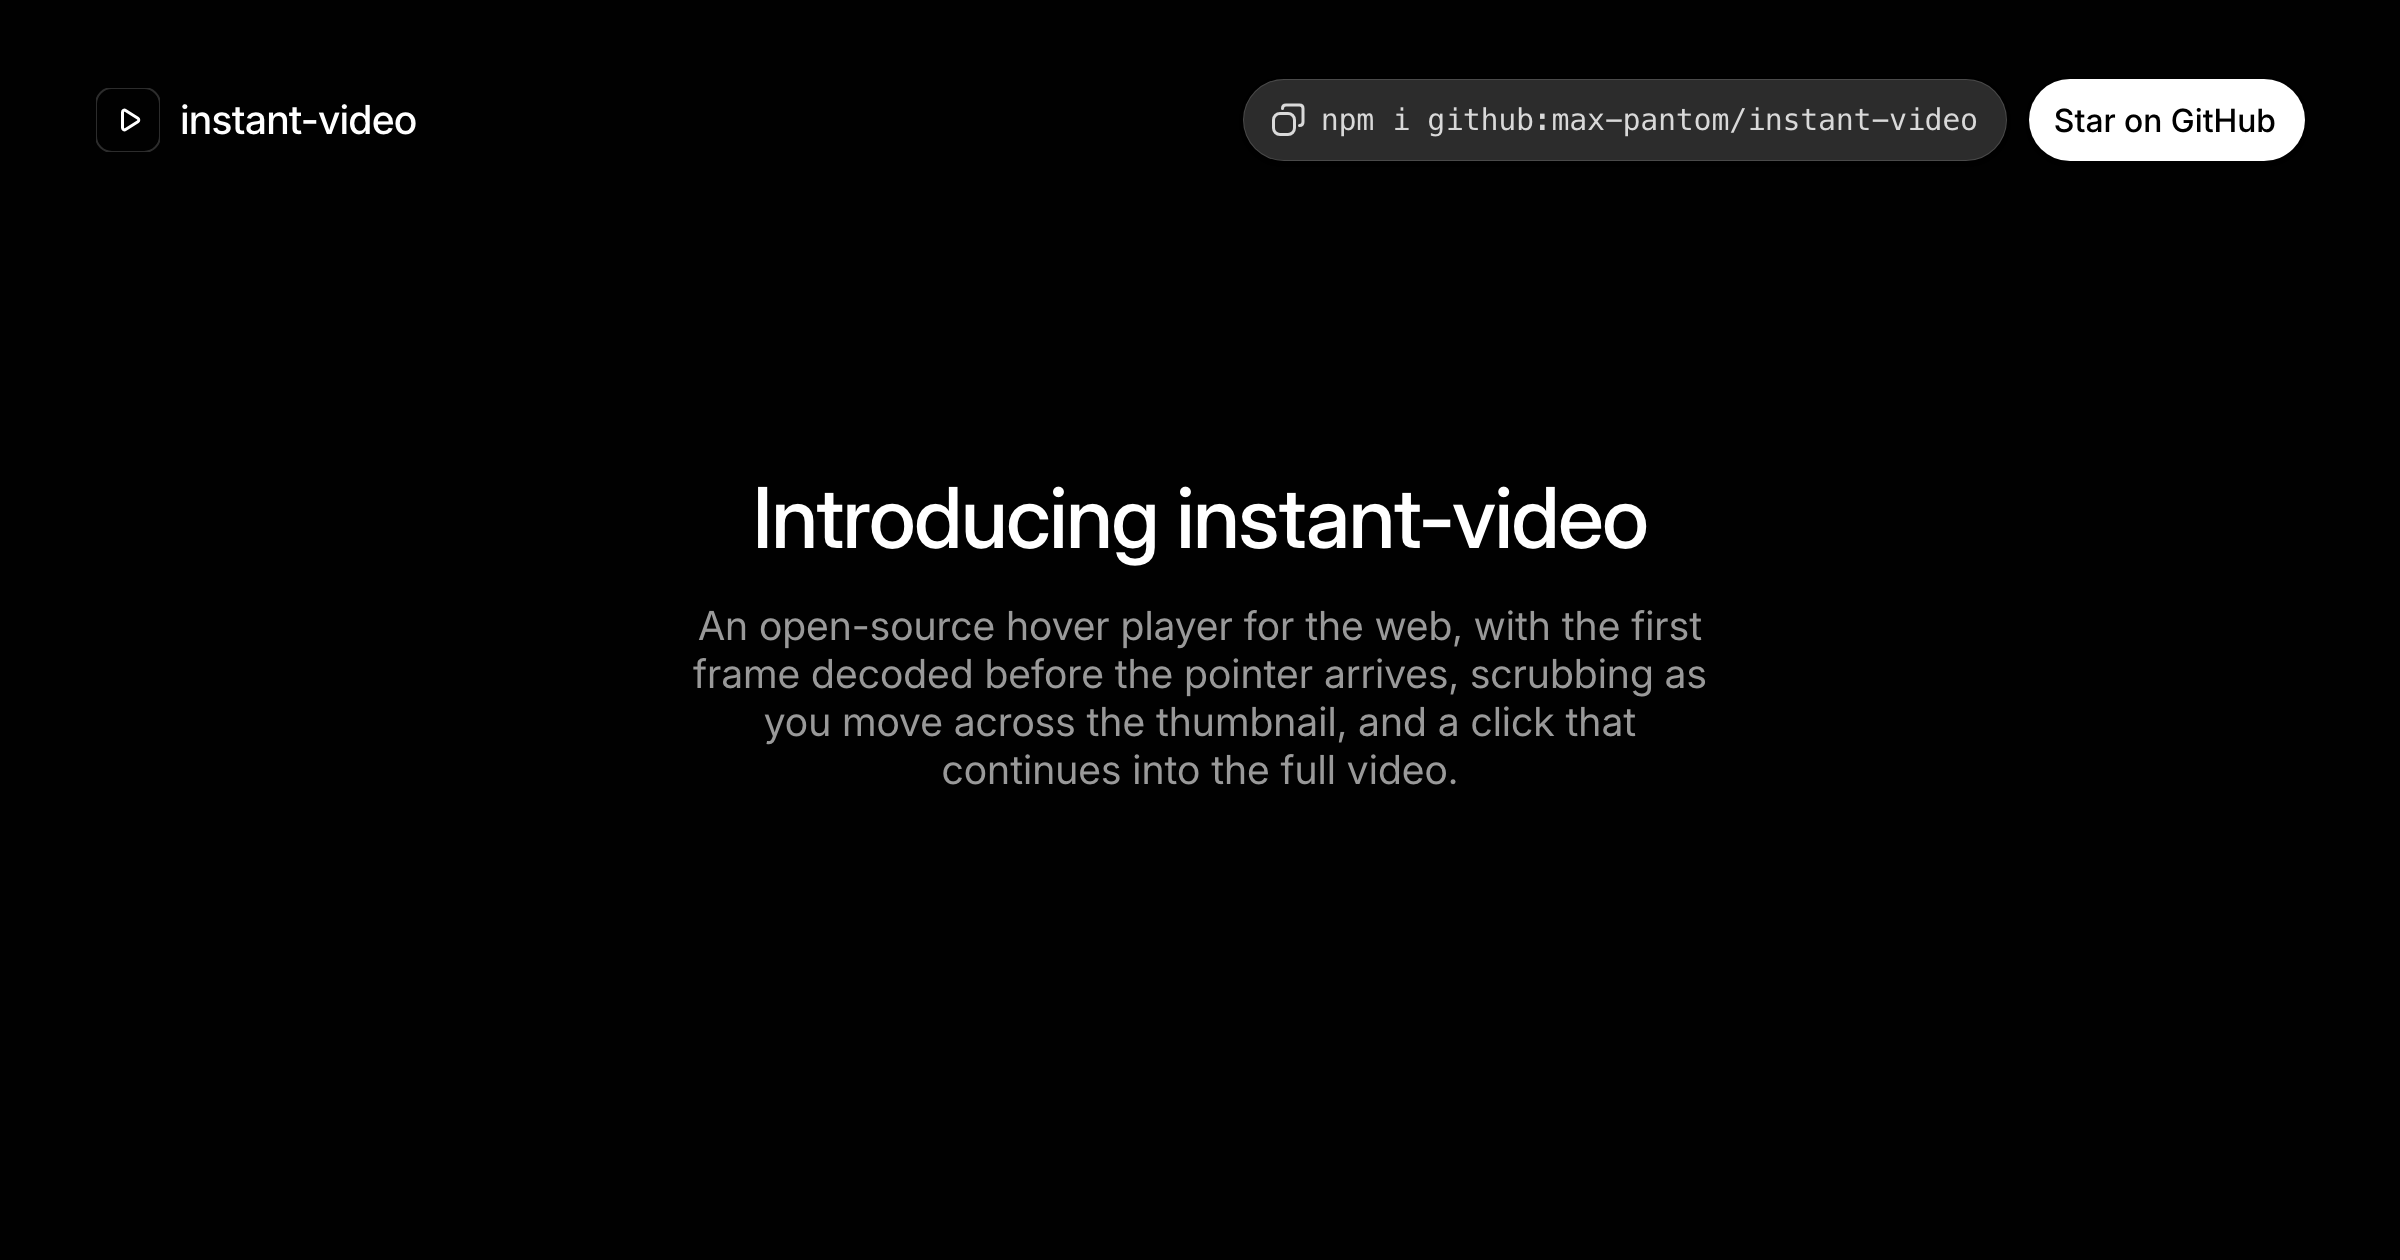
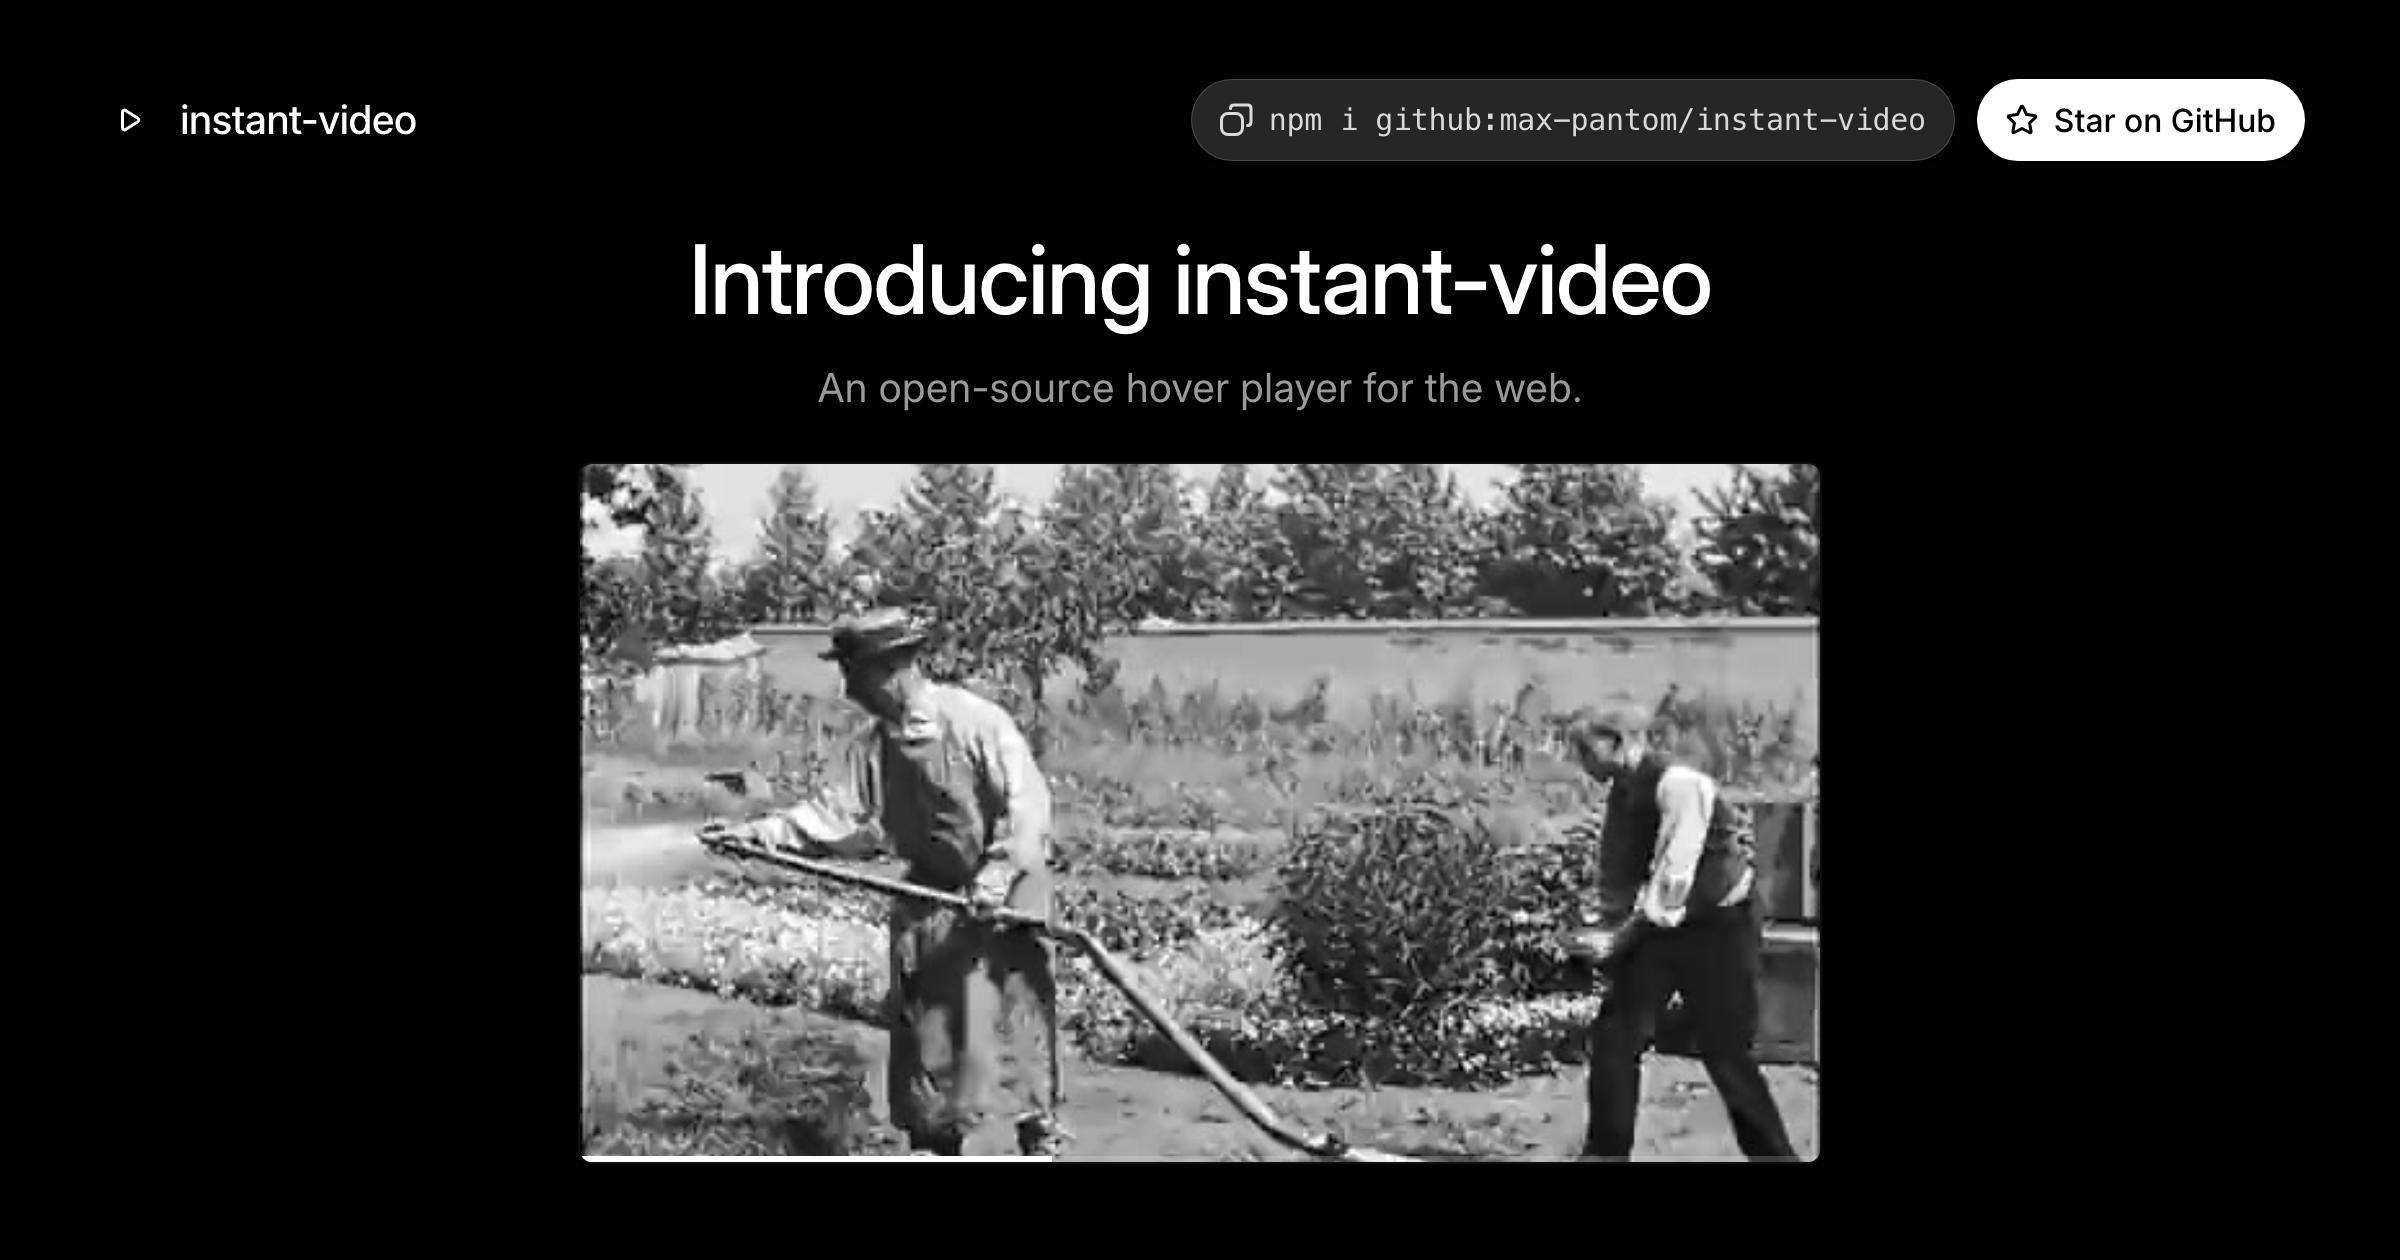
feat: match OG and wordmark to the Paper homepage
Render the 1200×630 social image as the intro page: Inter lockup, tactile install and Star pills, a short Introducing line, and the gardener stage. Outline the wordmark in Inter 500 so it does not depend on a live webfont.

Changed region(s): [[0.2188, 0.1857, 0.7812, 0.9286], [0.5, 0.0619, 0.875, 0.1238]]

diff --git a/scripts/og.html b/scripts/og.html
@@ -14,10 +14,6 @@
     -webkit-font-smoothing: antialiased;
     -moz-osx-font-smoothing: grayscale;
     color: #fff;
-    display: flex;
-    flex-direction: column;
-    align-items: center;
-    justify-content: center;
     position: relative;
   }
   .nav {
@@ -45,19 +41,40 @@
     line-height: 24px;
     white-space: nowrap;
   }
-  .copy { background: #2c2c2c; color: #d9d9d9; box-shadow: 0 0 0 0.5px #4a4a4a, 0 1px 2px rgba(0,0,0,.5); }
+  .copy { background: #262626; color: #d9d9d9; box-shadow: 0 0 0 0.5px #4a4a4a, 0 1px 2px rgba(0,0,0,.5); }
   .copy code { font: 400 15px/1 ui-monospace, SFMono-Regular, Menlo, monospace; letter-spacing: -.01em; }
   .star { background: #fff; color: #000; box-shadow: 0 0 0 0.5px #fff, 0 1px 2px rgba(0,0,0,.5); }
-  h1 { margin: 0; font-size: 42px; font-weight: 500; line-height: 52px; letter-spacing: -.02em; }
-  p { margin: 16px 0 0; width: 520px; text-align: center; font-size: 20px; line-height: 24px; font-weight: 400; color: #fff; opacity: .6; }
+  .hero {
+    position: absolute;
+    left: 48px;
+    right: 48px;
+    top: 112px;
+    bottom: 40px;
+    display: flex;
+    flex-direction: column;
+    align-items: center;
+  }
+  h1 { margin: 0; font-size: 48px; font-weight: 500; line-height: 56px; letter-spacing: -.02em; text-align: center; }
+  p { margin: 12px 0 0; font-size: 20px; line-height: 28px; font-weight: 400; color: #999; text-align: center; }
+  .stage {
+    margin-top: 24px;
+    width: 620px;
+    aspect-ratio: 16 / 9;
+    border-radius: 6px;
+    overflow: hidden;
+    background: #1a1a1a;
+    box-shadow: 0 0 0 1px rgba(255, 255, 255, .06);
+    position: relative;
+  }
+  .stage img { display: block; width: 100%; height: 100%; object-fit: cover; }
+  .bar { position: absolute; left: 0; right: 0; bottom: 0; height: 3px; background: rgba(255,255,255,.18); }
+  .bar i { display: block; width: 38%; height: 100%; background: #fff; }
 </style>
 </head>
 <body>
   <div class="nav">
     <div class="brand">
       <svg xmlns="http://www.w3.org/2000/svg" width="32" height="32" viewBox="0 0 32 32" aria-hidden="true">
-        <rect width="32" height="32" rx="8" fill="#010101"/>
-        <rect width="32" height="32" rx="8" fill="none" stroke="#2c2c2c" stroke-width="1"/>
         <g transform="translate(6 6)" fill="none" stroke="#fff" stroke-width="1.5" stroke-linecap="round" stroke-linejoin="round">
           <path d="M7.25 6.076A1 1 0 0 1 8.788 5.233L14.931 9.157A1 1 0 0 1 14.931 10.843L8.788 14.767A1 1 0 0 1 7.25 13.924Z"/>
         </g>
@@ -72,10 +89,21 @@
         </svg>
         <code>npm i github:max-pantom/instant-video</code>
       </div>
-      <div class="pill star">Star on GitHub</div>
+      <div class="pill star">
+        <svg xmlns="http://www.w3.org/2000/svg" width="20" height="20" viewBox="0 0 20 20" fill="none" stroke="currentColor" stroke-width="1.5" stroke-linecap="round" stroke-linejoin="round" aria-hidden="true">
+          <path d="M9.548 3.454A0.5 0.5 0 0 1 10.452 3.454L12.135 7.007A0.5 0.5 0 0 0 12.516 7.288L16.466 7.852A0.5 0.5 0 0 1 16.736 8.713L13.952 11.312A0.5 0.5 0 0 0 13.802 11.771L14.556 15.731A0.5 0.5 0 0 1 13.832 16.267L10.233 14.373A0.5 0.5 0 0 0 9.767 14.373L6.168 16.267A0.5 0.5 0 0 1 5.444 15.731L6.198 11.771A0.5 0.5 0 0 0 6.048 11.312L3.264 8.713A0.5 0.5 0 0 1 3.534 7.852L7.484 7.288A0.5 0.5 0 0 0 7.865 7.007Z"/>
+        </svg>
+        Star on GitHub
+      </div>
     </div>
   </div>
-  <h1>Introducing instant-video</h1>
-  <p>An open-source hover player for the web, with the first frame decoded before the pointer arrives, scrubbing as you move across the thumbnail, and a click that continues into the full video.</p>
+  <div class="hero">
+    <h1>Introducing instant-video</h1>
+    <p>An open-source hover player for the web.</p>
+    <div class="stage">
+      <img src="../demo/assets/gardener/p-fe9ed4decd82.jpg" alt="">
+      <div class="bar"><i></i></div>
+    </div>
+  </div>
 </body>
 </html>

diff --git a/scripts/wordmark.html b/scripts/wordmark.html
@@ -1,0 +1,36 @@
+<!doctype html>
+<html lang="en">
+<head>
+<meta charset="utf-8">
+<link rel="preconnect" href="https://fonts.googleapis.com">
+<link rel="preconnect" href="https://fonts.gstatic.com" crossorigin>
+<link rel="stylesheet" href="https://fonts.googleapis.com/css2?family=Inter:opsz,wght@14..32,400..500&display=swap">
+<style>
+  html, body { margin: 0; background: transparent; }
+  body {
+    display: inline-flex;
+    align-items: center;
+    gap: 10px;
+    padding: 0;
+    font-family: Inter, system-ui, sans-serif;
+    font-size: 20px;
+    font-weight: 500;
+    line-height: 32px;
+    letter-spacing: -.02em;
+    color: #fff;
+    -webkit-font-smoothing: antialiased;
+    font-synthesis: none;
+  }
+  svg { display: block; }
+</style>
+</head>
+<body>
+  <svg xmlns="http://www.w3.org/2000/svg" width="32" height="32" viewBox="0 0 32 32" aria-hidden="true">
+    <rect width="32" height="32" rx="8" fill="#010101"/>
+    <g transform="translate(6 6)" fill="none" stroke="#fff" stroke-width="1.5" stroke-linecap="round" stroke-linejoin="round">
+      <path d="M7.25 6.076A1 1 0 0 1 8.788 5.233L14.931 9.157A1 1 0 0 1 14.931 10.843L8.788 14.767A1 1 0 0 1 7.25 13.924Z"/>
+    </g>
+  </svg>
+  instant-video
+</body>
+</html>
